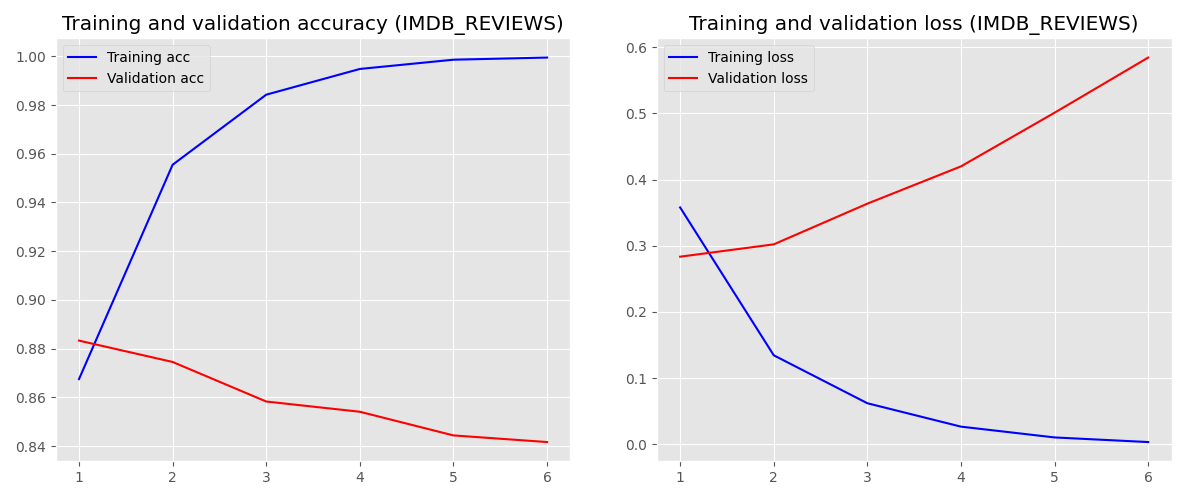
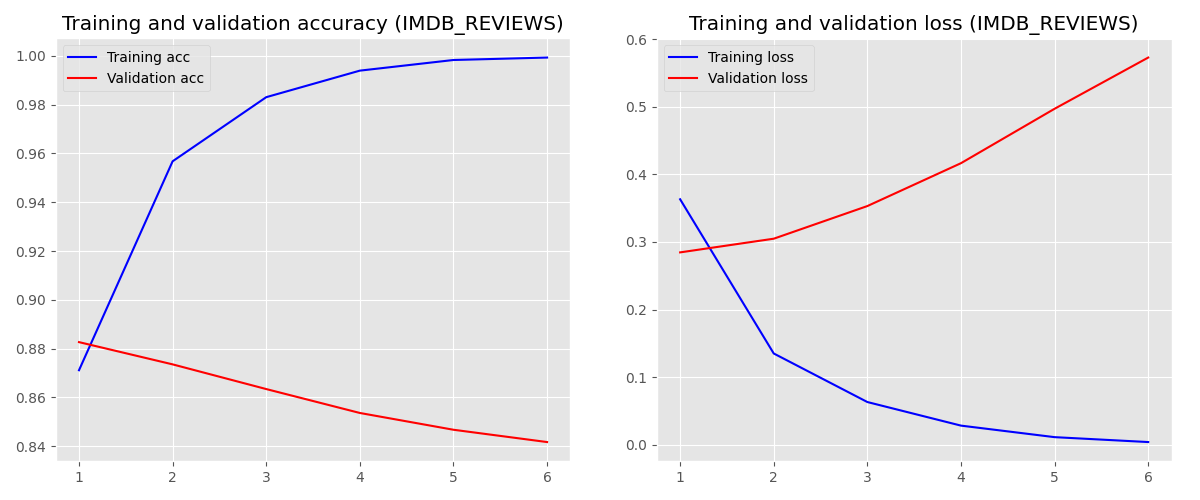
Code refactoring

diff --git a/code/deep_learning/keras_deep_learning.py b/code/deep_learning/keras_deep_learning.py
@@ -94,10 +94,12 @@ def run_deep_learning_using_keras(options):
         history = model.fit(X_train, y_train, epochs=6, verbose=False, validation_data=(X_test, y_test), batch_size=10)
 
         loss, accuracy = model.evaluate(X_train, y_train, verbose=False)
-        print("Training Accuracy: {:.2f}%".format(accuracy*100))
+        print(dataset)
+        print("\tTraining Accuracy: {:.2f}%".format(accuracy*100))
         loss, accuracy = model.evaluate(X_test, y_test, verbose=False)
-        print("Test Accuracy: {:.2f}%".format(accuracy*100))
+        print("\tTest Accuracy: {:.2f}%".format(accuracy*100))
 
         plt.style.use('ggplot')
 
         plot_history(history, dataset)
+        print('\n')

diff --git a/code/plotting/plot.py b/code/plotting/plot.py
@@ -4,7 +4,6 @@ from utils.dataset_enum import Dataset
 
 
 def plot_history(history, dataset):
-    print("Plotting the grapsh")
     acc = history.history['accuracy']
     val_acc = history.history['val_accuracy']
     loss = history.history['loss']

diff --git a/code/results/deep_learning_using_keras/training_and_validation_accuracy-training_and_validation_loss_and_logs.md b/code/results/deep_learning_using_keras/training_and_validation_accuracy-training_and_validation_loss_and_logs.md
@@ -2,16 +2,10 @@
 
 #### Training and Validation Accuracy and Loss
 
-Training Accuracy: 98.92%
-Testing Accuracy:  96.50%
-
-Training Accuracy: 99.96%
-Testing Accuracy:  84.16%
-
 | DATASET             | Training Accuracy (%) | Test Accuracy (%) | 
 | ------------------- | --------------------- | ----------------- |
-|  TWENTY_NEWS_GROUPS | 98.92%                | 96.50%            |
-|  IMDB_REVIEWS       | 99.96%                | 84.16%            |
+|  TWENTY_NEWS_GROUPS | 97.56%                | 95.98%            |
+|  IMDB_REVIEWS       | 99.96%                | 84.17%            |
 
 #### TWENTY_NEWS_GROUPS: Training and Validation Accuracy, Training and Validation Loss
 
@@ -30,11 +24,9 @@ Testing Accuracy:  84.16%
 ```
 /home/rpessoa/virtual_envs/comp551_p2/bin/python /home/rpessoa/github/comp551-2020-p2_classification_of_textual_data/code/main.py --run_deep_learning_using_keras
 Using TensorFlow backend.
-2020-03-08 14:00:49.782641: W tensorflow/stream_executor/platform/default/dso_loader.cc:55] Could not load dynamic library 'libnvinfer.so.6'; dlerror: libnvinfer.so.6: cannot open shared object file: No such file or directory
-2020-03-08 14:00:49.782698: W tensorflow/stream_executor/platform/default/dso_loader.cc:55] Could not load dynamic library 'libnvinfer_plugin.so.6'; dlerror: libnvinfer_plugin.so.6: cannot open shared object file: No such file or directory
-2020-03-08 14:00:49.782703: W tensorflow/compiler/tf2tensorrt/utils/py_utils.cc:30] Cannot dlopen some TensorRT libraries. If you would like to use Nvidia GPU with TensorRT, please make sure the missing libraries mentioned above are installed properly.
-03/08/2020 02:00:50 PM - INFO - Program started...
-03/08/2020 02:00:50 PM - INFO - Program started...
+2020-03-08 15:51:54.921612: W tensorflow/stream_executor/platform/default/dso_loader.cc:55] Could not load dynamic library 'libnvinfer.so.6'; dlerror: libnvinfer.so.6: cannot open shared object file: No such file or directory
+2020-03-08 15:51:54.921671: W tensorflow/stream_executor/platform/default/dso_loader.cc:55] Could not load dynamic library 'libnvinfer_plugin.so.6'; dlerror: libnvinfer_plugin.so.6: cannot open shared object file: No such file or directory
+2020-03-08 15:51:54.921677: W tensorflow/compiler/tf2tensorrt/utils/py_utils.cc:30] Cannot dlopen some TensorRT libraries. If you would like to use Nvidia GPU with TensorRT, please make sure the missing libraries mentioned above are installed properly.
 usage: main.py [-h] [-d DATASET] [-ml ML_ALGORITHM_LIST]
                [-use_default_parameters] [-not_shuffle] [-n_jobs N_JOBS] [-cv]
                [-n_splits N_SPLITS] [-required_classifiers]
@@ -167,31 +159,35 @@ Running with options:
 ==================================================================================================================================
 
 Loading TWENTY_NEWS_GROUPS dataset for categories:
+03/08/2020 03:51:55 PM - INFO - Program started...
+03/08/2020 03:51:55 PM - INFO - Program started...
 data loaded
 11314 documents - 13.782MB (training set)
 7532 documents - 8.262MB (test set)
 20 categories
 
 Extracting features from the training data using a vectorizer
-done in 1.074437s at 12.827MB/s
+done in 1.058659s at 13.018MB/s
 n_samples: 11314, n_features: 101321
 
 Extracting features from the test data using the same vectorizer
-done in 0.621911s at 13.284MB/s
+done in 0.571080s at 14.467MB/s
 n_samples: 7532, n_features: 101321
 
 ================================================================================
 Keras
-2020-03-08 14:00:53.373440: W tensorflow/stream_executor/platform/default/dso_loader.cc:55] Could not load dynamic library 'libcuda.so.1'; dlerror: libcuda.so.1: cannot open shared object file: No such file or directory
-2020-03-08 14:00:53.373456: E tensorflow/stream_executor/cuda/cuda_driver.cc:351] failed call to cuInit: UNKNOWN ERROR (303)
-2020-03-08 14:00:53.373467: I tensorflow/stream_executor/cuda/cuda_diagnostics.cc:156] kernel driver does not appear to be running on this host (rpessoadesk): /proc/driver/nvidia/version does not exist
-2020-03-08 14:00:53.373588: I tensorflow/core/platform/cpu_feature_guard.cc:142] Your CPU supports instructions that this TensorFlow binary was not compiled to use: AVX2 FMA
-2020-03-08 14:00:53.394335: I tensorflow/core/platform/profile_utils/cpu_utils.cc:94] CPU Frequency: 3199980000 Hz
-2020-03-08 14:00:53.394674: I tensorflow/compiler/xla/service/service.cc:168] XLA service 0x73bd1d0 initialized for platform Host (this does not guarantee that XLA will be used). Devices:
-2020-03-08 14:00:53.394684: I tensorflow/compiler/xla/service/service.cc:176]   StreamExecutor device (0): Host, Default Version
-Training Accuracy: 98.92%
-Testing Accuracy:  96.50%
-Plotting the grapsh
+2020-03-08 15:51:58.448358: W tensorflow/stream_executor/platform/default/dso_loader.cc:55] Could not load dynamic library 'libcuda.so.1'; dlerror: libcuda.so.1: cannot open shared object file: No such file or directory
+2020-03-08 15:51:58.448373: E tensorflow/stream_executor/cuda/cuda_driver.cc:351] failed call to cuInit: UNKNOWN ERROR (303)
+2020-03-08 15:51:58.448383: I tensorflow/stream_executor/cuda/cuda_diagnostics.cc:156] kernel driver does not appear to be running on this host (rpessoadesk): /proc/driver/nvidia/version does not exist
+2020-03-08 15:51:58.448499: I tensorflow/core/platform/cpu_feature_guard.cc:142] Your CPU supports instructions that this TensorFlow binary was not compiled to use: AVX2 FMA
+2020-03-08 15:51:58.470403: I tensorflow/core/platform/profile_utils/cpu_utils.cc:94] CPU Frequency: 3199980000 Hz
+2020-03-08 15:51:58.470675: I tensorflow/compiler/xla/service/service.cc:168] XLA service 0x7b63770 initialized for platform Host (this does not guarantee that XLA will be used). Devices:
+2020-03-08 15:51:58.470685: I tensorflow/compiler/xla/service/service.cc:176]   StreamExecutor device (0): Host, Default Version
+TWENTY_NEWS_GROUPS
+	Training Accuracy: 97.56%
+	Test Accuracy: 95.98%
+
+
 Loading IMDB_REVIEWS dataset:
 
 ===> Reading files from /home/rpessoa/github/comp551-2020-p2_classification_of_textual_data/code/datasets/imdb_reviews/aclImdb/train/neg
@@ -206,22 +202,24 @@ data loaded
 25000 documents - 32.351MB (test set)
 
 Extracting features from the training data using a vectorizer
-done in 2.783152s at 11.905MB/s
+done in 2.803066s at 11.820MB/s
 n_samples: 25000, n_features: 74170
 
 Extracting features from the test data using the same vectorizer
-done in 2.720244s at 11.893MB/s
+done in 2.756871s at 11.735MB/s
 n_samples: 25000, n_features: 74170
 
 ================================================================================
 Keras
-Training Accuracy: 99.96%
-Testing Accuracy:  84.16%
-Plotting the grapsh
+IMDB_REVIEWS
+	Training Accuracy: 99.96%
+	Test Accuracy: 84.17%
+
+
 
 
 DONE!
-Program finished. It took 168.13154578208923 seconds
+Program finished. It took 163.6691234111786 seconds
 
 Process finished with exit code 0
 ```
